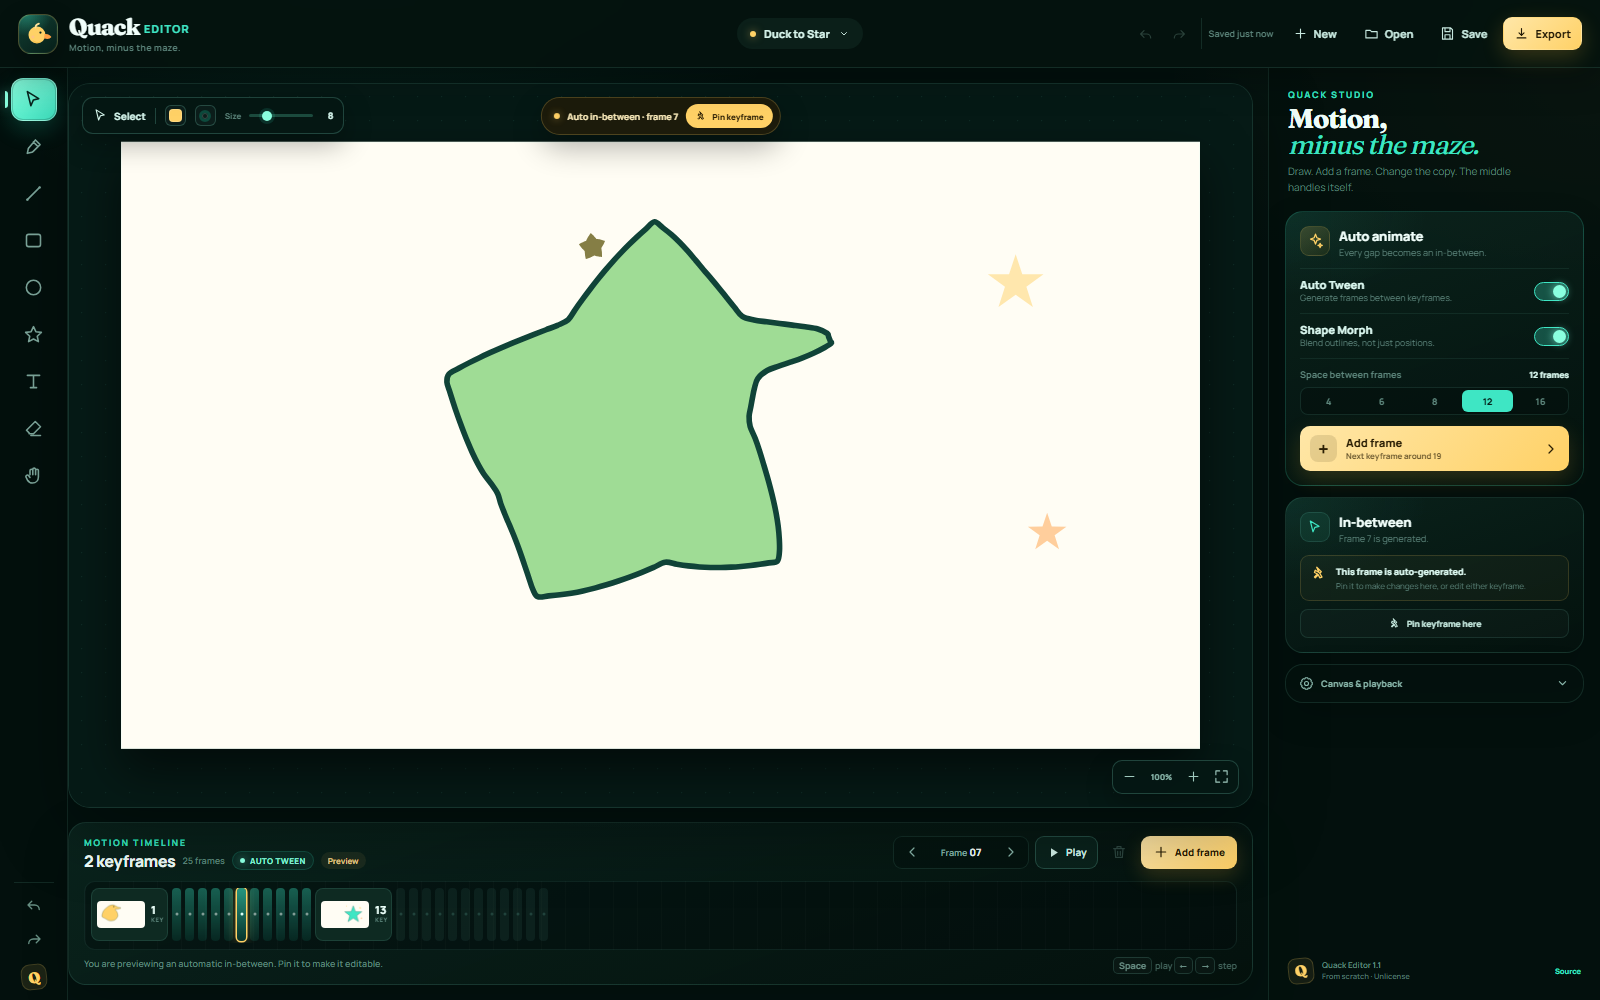
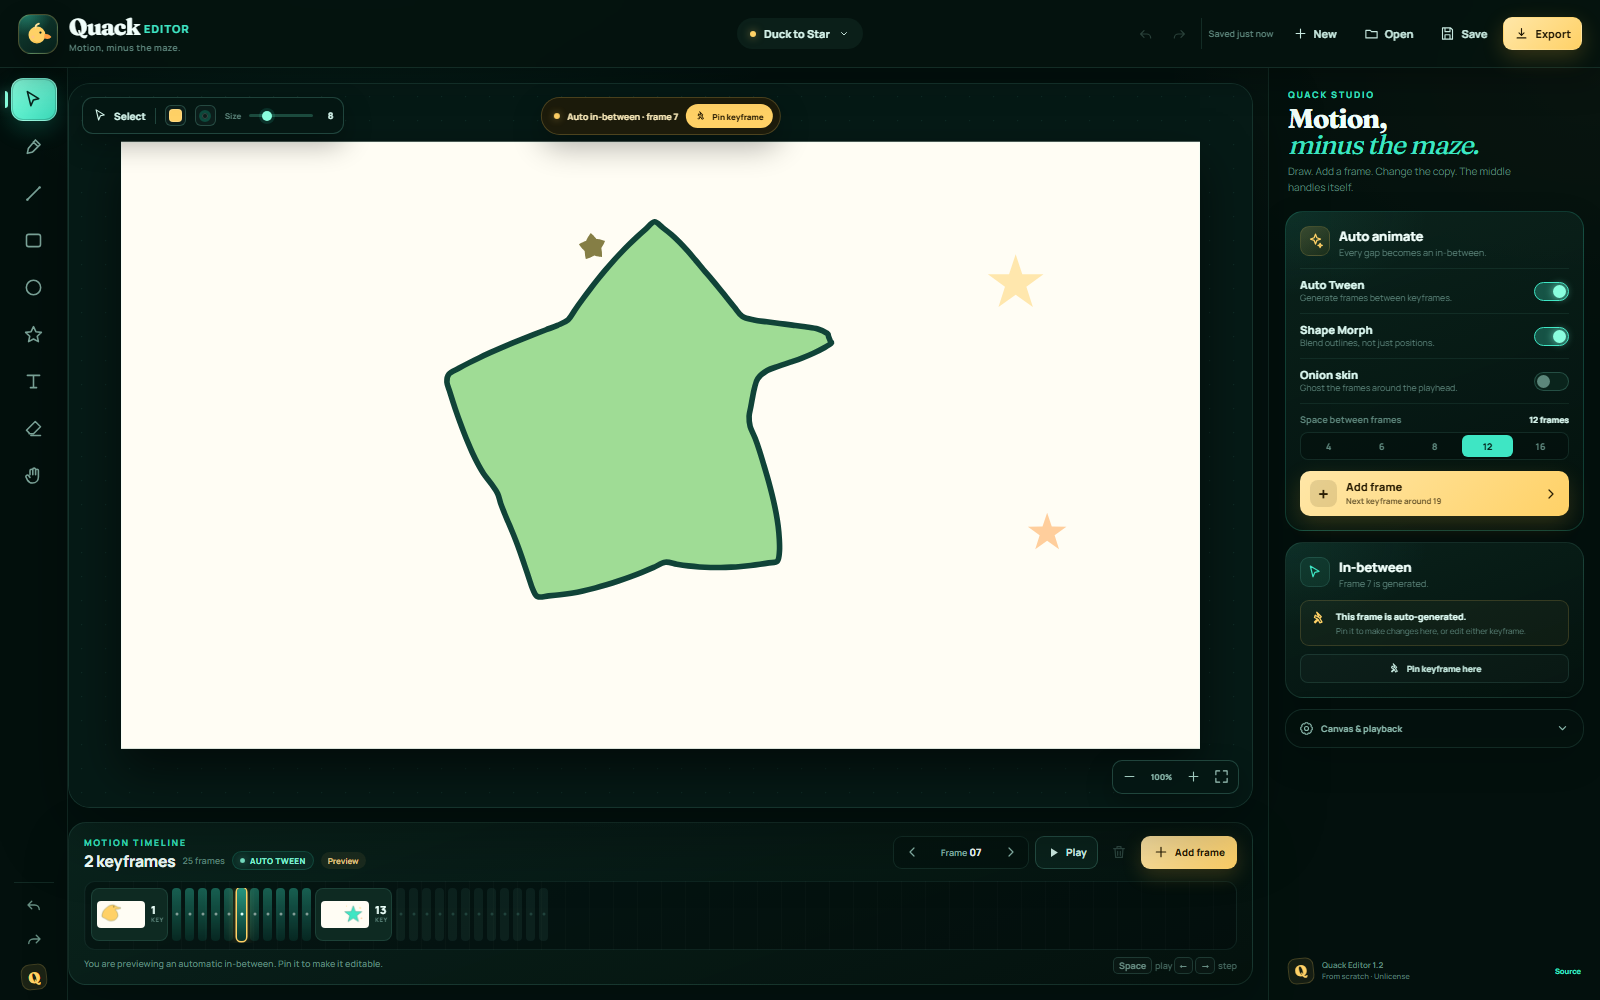
Add onion skinning with adjustable previous/next frame ghosts

Changed region(s): [[0.7812, 0.372, 1.0, 0.744]]

diff --git a/src/model/render.ts b/src/model/render.ts
@@ -1,6 +1,7 @@
 import type { Project, ShapeObject } from '../types';
 import { polygonPath } from './geometry';
 import { sceneAt } from './animation';
+import { projectDuration } from './project';
 
 export const TEXT_FONT = '"Manrope Variable", "Manrope", system-ui, sans-serif';
 
@@ -49,6 +50,78 @@ export function drawSceneObjects(
   objects: ShapeObject[],
 ): void {
   objects.forEach(object => drawShape(ctx, object));
+}
+
+function drawTintedShape(
+  ctx: CanvasRenderingContext2D,
+  object: ShapeObject,
+  tint: string,
+  strength: number,
+): void {
+  if (object.opacity <= 0.01) return;
+  const alpha = Math.max(0, Math.min(1, strength * object.opacity));
+  ctx.save();
+
+  if (object.kind === 'text') {
+    const anchor = object.points[0] || { x: 0, y: 0 };
+    const size = object.fontSize || 64;
+    ctx.globalAlpha = alpha * 0.72;
+    ctx.fillStyle = tint;
+    ctx.font = `800 ${size}px ${TEXT_FONT}`;
+    ctx.textBaseline = 'top';
+    ctx.textAlign = 'left';
+    ctx.fillText(object.text || '', anchor.x, anchor.y);
+    ctx.restore();
+    return;
+  }
+
+  const path = polygonPath(object.points, object.closed, object.smooth);
+
+  if (object.closed) {
+    ctx.globalAlpha = alpha * 0.12;
+    ctx.fillStyle = tint;
+    ctx.fill(path);
+  }
+
+  ctx.globalAlpha = alpha * 0.78;
+  ctx.strokeStyle = tint;
+  ctx.lineWidth = Math.max(1.4, Math.min(3, object.strokeWidth || 2));
+  ctx.lineCap = 'round';
+  ctx.lineJoin = 'round';
+  ctx.stroke(path);
+  ctx.restore();
+}
+
+export function drawOnionSkin(
+  ctx: CanvasRenderingContext2D,
+  project: Project,
+  frame: number,
+  range: number,
+): void {
+  const duration = projectDuration(project);
+  const layers = Math.max(1, Math.min(4, Math.round(range)));
+
+  for (let offset = layers; offset >= 1; offset--) {
+    const strength = 0.42 / offset;
+    const previousFrame = frame - offset;
+    const nextFrame = frame + offset;
+
+    if (previousFrame >= 1) {
+      drawTintedScene(ctx, sceneAt(project, previousFrame), '#ff9f43', strength);
+    }
+    if (nextFrame <= duration) {
+      drawTintedScene(ctx, sceneAt(project, nextFrame), '#3ee6c4', strength);
+    }
+  }
+}
+
+function drawTintedScene(
+  ctx: CanvasRenderingContext2D,
+  objects: ShapeObject[],
+  tint: string,
+  strength: number,
+): void {
+  objects.forEach(object => drawTintedShape(ctx, object, tint, strength));
 }
 
 export function renderProjectFrame(

diff --git a/src/components/SidePanel.tsx b/src/components/SidePanel.tsx
@@ -13,6 +13,10 @@ interface SidePanelProps {
   strokeColor: string;
   onFillColorChange: (color: string) => void;
   onStrokeColorChange: (color: string) => void;
+  onionSkin: boolean;
+  onionRange: number;
+  onToggleOnionSkin: (enabled: boolean) => void;
+  onOnionRangeChange: (range: number) => void;
   onUpdateProject: (patch: Partial<Project>) => void;
   onUpdateSelected: (patch: Partial<ShapeObject>) => void;
   onAddFrame: () => void;
@@ -107,6 +111,10 @@ export default function SidePanel(props: SidePanelProps) {
     strokeColor,
     onFillColorChange,
     onStrokeColorChange,
+    onionSkin,
+    onionRange,
+    onToggleOnionSkin,
+    onOnionRangeChange,
     onUpdateProject,
     onUpdateSelected,
     onAddFrame,
@@ -155,6 +163,33 @@ export default function SidePanel(props: SidePanelProps) {
           hint="Blend outlines, not just positions."
           disabled={!project.autoTween}
         />
+        <Toggle
+          checked={onionSkin}
+          onChange={onToggleOnionSkin}
+          label="Onion skin"
+          hint="Ghost the frames around the playhead."
+        />
+
+        {onionSkin && (
+          <div className="gap-control onion-control">
+            <div className="gap-label">
+              <span>Onion range</span>
+              <strong>±{onionRange}</strong>
+            </div>
+            <div className="segmented" role="group" aria-label="Onion skin range">
+              {[1, 2, 3].map(range => (
+                <button
+                  key={range}
+                  type="button"
+                  className={onionRange === range ? 'is-active' : ''}
+                  onClick={() => onOnionRangeChange(range)}
+                >
+                  ±{range}
+                </button>
+              ))}
+            </div>
+          </div>
+        )}
 
         <div className="gap-control">
           <div className="gap-label">
@@ -412,7 +447,7 @@ export default function SidePanel(props: SidePanelProps) {
       <footer className="panel-footer">
         <span className="footer-duck">Q</span>
         <span>
-          Quack Editor <strong>1.1</strong><br />
+          Quack Editor <strong>1.2</strong><br />
           <small>From scratch · Unlicense</small>
         </span>
         <a

diff --git a/src/App.tsx b/src/App.tsx
@@ -86,6 +86,13 @@ export default function App() {
   const [smoothDrawing, setSmoothDrawing] = useState(
     () => localStorage.getItem('quack.smoothDrawing.v1') !== 'false',
   );
+  const [onionSkin, setOnionSkin] = useState(
+    () => localStorage.getItem('quack.onionSkin.v1') === 'true',
+  );
+  const [onionRange, setOnionRange] = useState(() => {
+    const stored = Number(localStorage.getItem('quack.onionRange.v1'));
+    return Number.isFinite(stored) && stored >= 1 && stored <= 3 ? stored : 2;
+  });
   const [playing, setPlaying] = useState(false);
   const [welcomeOpen, setWelcomeOpen] = useState(() => localStorage.getItem(WELCOME_KEY) !== 'yes');
   const [exportOpen, setExportOpen] = useState(false);
@@ -157,6 +164,11 @@ export default function App() {
   useEffect(() => {
     localStorage.setItem('quack.smoothDrawing.v1', String(smoothDrawing));
   }, [smoothDrawing]);
+
+  useEffect(() => {
+    localStorage.setItem('quack.onionSkin.v1', String(onionSkin));
+    localStorage.setItem('quack.onionRange.v1', String(onionRange));
+  }, [onionRange, onionSkin]);
 
   useEffect(() => {
     if (!playing) return undefined;
@@ -609,6 +621,8 @@ export default function App() {
             tool={tool}
             setTool={setTool}
             editable={!!activeKeyframe}
+            onionSkin={onionSkin && !playing}
+            onionRange={onionRange}
             selectedIds={selectedIds}
             selectedObjects={selectedObjects}
             fillColor={fillColor}
@@ -656,6 +670,10 @@ export default function App() {
           strokeColor={strokeColor}
           onFillColorChange={setFillColor}
           onStrokeColorChange={setStrokeColor}
+          onionSkin={onionSkin}
+          onionRange={onionRange}
+          onToggleOnionSkin={setOnionSkin}
+          onOnionRangeChange={setOnionRange}
           onUpdateProject={updateProject}
           onUpdateSelected={updateSelected}
           onAddFrame={addFrame}

diff --git a/src/components/CanvasStage.tsx b/src/components/CanvasStage.tsx
@@ -16,7 +16,7 @@ import {
   uid,
   unionBounds,
 } from '../model/geometry';
-import { drawSceneObjects, drawShape } from '../model/render';
+import { drawOnionSkin, drawSceneObjects, drawShape } from '../model/render';
 import { Icon } from './Icons';
 import type { IconName } from './Icons';
 
@@ -27,6 +27,8 @@ interface CanvasStageProps {
   tool: Tool;
   setTool: (tool: Tool) => void;
   editable: boolean;
+  onionSkin: boolean;
+  onionRange: number;
   selectedIds: string[];
   selectedObjects: ShapeObject[];
   fillColor: string;
@@ -185,6 +187,8 @@ export default function CanvasStage(props: CanvasStageProps) {
     scene,
     tool,
     editable,
+    onionSkin,
+    onionRange,
     selectedIds,
     selectedObjects,
     fillColor,
@@ -357,6 +361,7 @@ export default function CanvasStage(props: CanvasStageProps) {
     ctx.clip();
     ctx.fillStyle = project.background;
     ctx.fillRect(0, 0, project.width, project.height);
+    if (onionSkin) drawOnionSkin(ctx, project, frame, onionRange);
     drawSceneObjects(ctx, scene);
     if (preview) drawShape(ctx, preview);
     ctx.restore();
@@ -440,6 +445,8 @@ export default function CanvasStage(props: CanvasStageProps) {
     frame,
     handlePoints,
     marquee,
+    onionRange,
+    onionSkin,
     preview,
     project.background,
     project.height,
@@ -842,6 +849,14 @@ export default function CanvasStage(props: CanvasStageProps) {
           <span className="canvas-empty-icon"><Icon name="sparkle" size={21} /></span>
           <strong>Make your first mark.</strong>
           <span>Pick a brush or a shape from the left.</span>
+        </div>
+      )}
+
+      {onionSkin && (
+        <div className="onion-legend">
+          <span><i className="onion-dot onion-dot--prev" /> Previous</span>
+          <span><i className="onion-dot onion-dot--next" /> Next</span>
+          <small>±{onionRange} frames</small>
         </div>
       )}
 

diff --git a/src/styles.css b/src/styles.css
@@ -813,6 +813,55 @@ kbd {
   text-align: center;
 }
 
+.onion-legend {
+  position: absolute;
+  left: 13px;
+  bottom: 13px;
+  z-index: 6;
+  display: flex;
+  align-items: center;
+  gap: 10px;
+  height: 31px;
+  padding: 0 10px;
+  border: 1px solid var(--line-strong);
+  border-radius: 9px;
+  background: rgba(5, 23, 19, 0.82);
+  box-shadow: 0 10px 26px rgba(0, 0, 0, 0.28);
+  color: var(--muted);
+  font-size: 8px;
+  font-weight: 700;
+  backdrop-filter: blur(14px);
+}
+
+.onion-legend span {
+  display: inline-flex;
+  align-items: center;
+  gap: 4px;
+}
+
+.onion-legend small {
+  color: var(--dim);
+  font-size: 7px;
+  font-weight: 650;
+}
+
+.onion-dot {
+  display: inline-block;
+  width: 6px;
+  height: 6px;
+  border-radius: 50%;
+}
+
+.onion-dot--prev {
+  background: #ff9f43;
+  box-shadow: 0 0 7px rgba(255, 159, 67, 0.65);
+}
+
+.onion-dot--next {
+  background: var(--mint);
+  box-shadow: 0 0 7px rgba(62, 230, 196, 0.65);
+}
+
 .brush-ring {
   position: absolute;
   z-index: 8;
@@ -1285,6 +1334,16 @@ kbd {
 .gap-control {
   padding-top: 9px;
   border-top: 1px solid rgba(146, 255, 229, 0.075);
+}
+
+.onion-control {
+  padding-top: 3px;
+  border-top: 0;
+  margin-top: -2px;
+}
+
+.onion-control .segmented {
+  grid-template-columns: repeat(3, 1fr);
 }
 
 .gap-label {

diff --git a/src/components/Welcome.tsx b/src/components/Welcome.tsx
@@ -39,7 +39,7 @@ export default function Welcome({ open, onStart, onDemo }: WelcomeProps) {
           <div className="welcome-duck">
             <DuckMark size={76} />
           </div>
-          <span className="eyebrow">Quack Editor · 1.1</span>
+          <span className="eyebrow">Quack Editor · 1.2</span>
           <h1>Quack. Make<br /><em>something move.</em></h1>
           <p>
             A tiny motion studio with one big trick: draw two moments and Quack

diff --git a/README.md b/README.md
@@ -32,6 +32,10 @@ Multi-select with a marquee, or Shift-click parts to add them to the group:
 
 ![Quack Editor multi-selection](docs/quack-multiselect.png)
 
+Onion skinning shows the previous frames in amber and the next frames in mint:
+
+![Quack Editor onion skinning](docs/quack-onion.png)
+
 ## Features
 
 - **Custom canvas engine** with brush, line, rectangle, ellipse, star, text, eraser,
@@ -40,6 +44,9 @@ Multi-select with a marquee, or Shift-click parts to add them to the group:
   them. Move and resize the whole group, or batch-style it from the studio panel.
 - **Auto-smoothing brush**: a persistent Smooth toggle softens hand jitter while you
   draw and finishes each stroke with a Chaikin smoothing pass.
+- **Onion skinning**: ghost the frames around the playhead. Previous frames tint amber,
+  upcoming frames tint mint, and the range is adjustable from ±1 to ±3. Ghosts hide
+  while playing, and the setting is remembered between sessions.
 - **Automatic in-betweening** with a smoothstep time curve.
 - **True vector shape morphing**: contours are resampled, winding-aligned, rotated to
   the best seam, and interpolated point by point. Fill, stroke, width, and opacity
